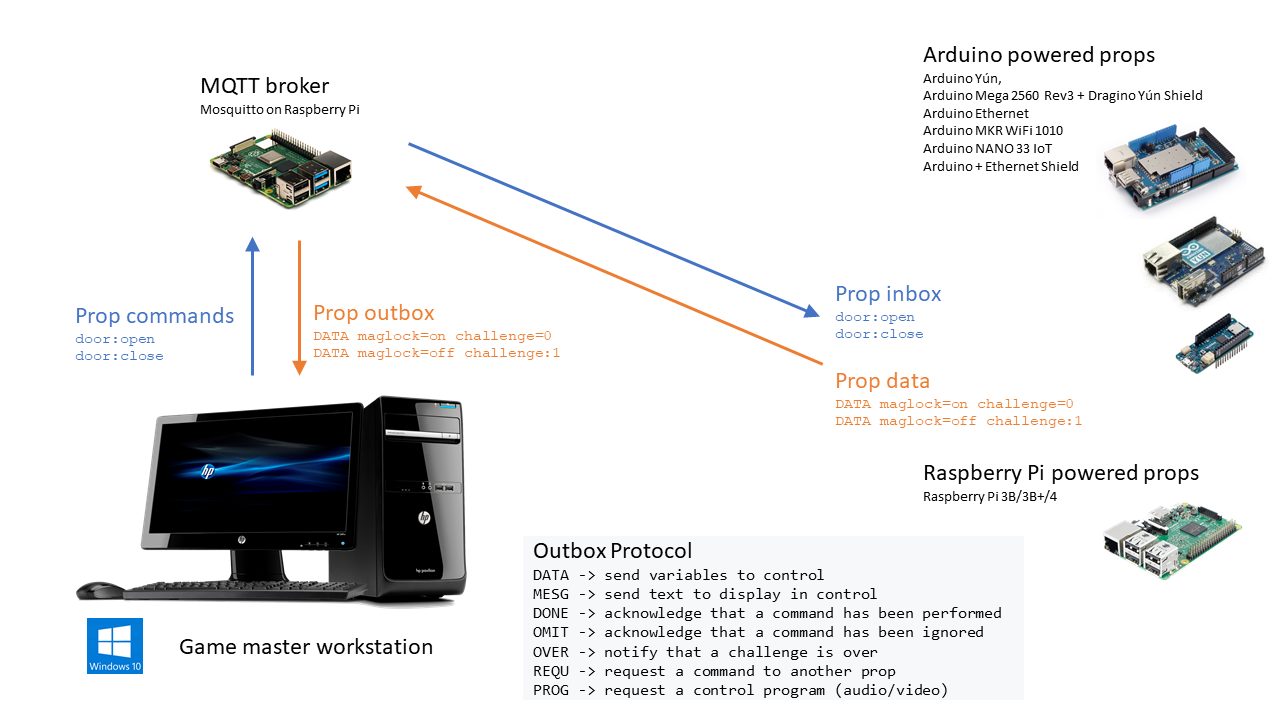
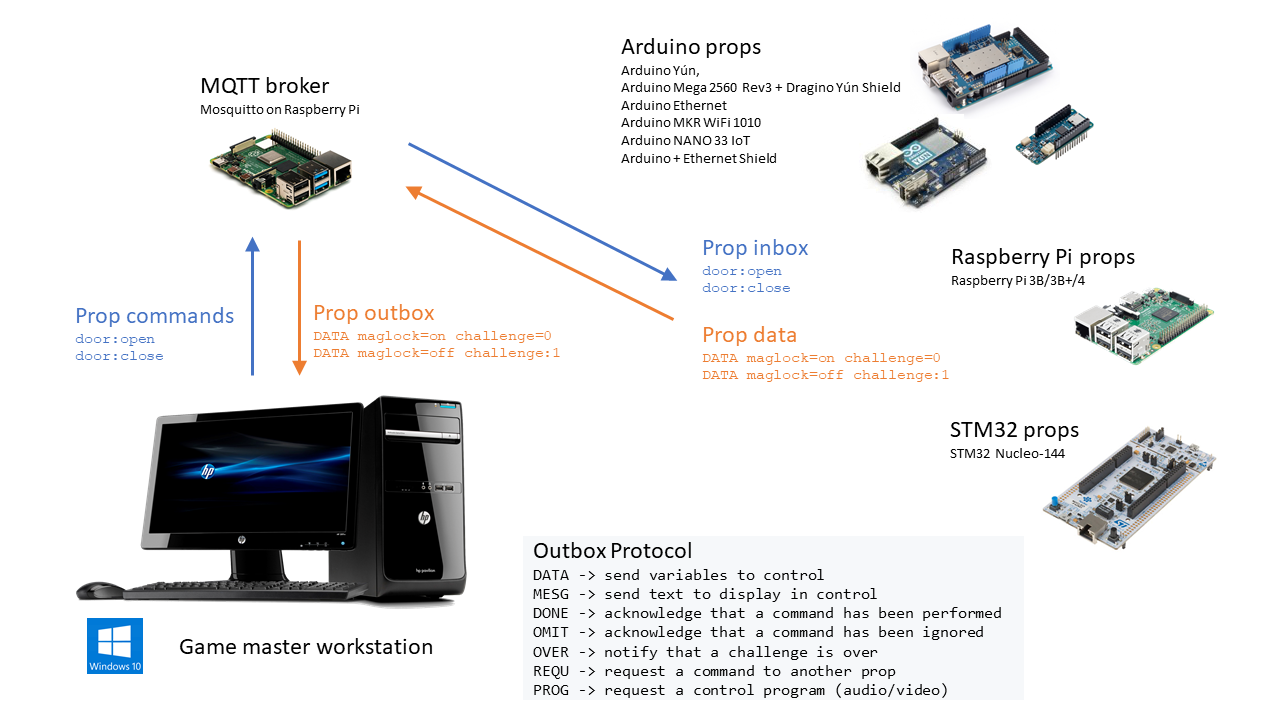
Add STM32 Nucleo-144 support

diff --git a/src/Stm32Millis.h b/src/Stm32Millis.h
@@ -1,0 +1,48 @@
+/*
+  Name:		 Stm32Millis.h
+  Author:  Faure Systems <dev at faure dot systems>
+  Editor:  https://github.com/fauresystems
+  License: MIT License (c) Faure Systems <dev at faure dot systems>
+
+  Implement millis() missing in STM32duino.
+  https://github.com/stm32duino/wiki/wiki/HardwareTimer-library
+*/
+
+#ifndef STM32MILLIS_H
+#define STM32MILLIS_H
+
+#if defined(STM32F4xx) || defined(STM32F7xx)
+
+#include <Arduino.h>
+
+class Stm32MillisClass {
+
+  public:
+    HardwareTimer *_timer;
+    static unsigned long milliseconds;
+
+    static void update(void) {
+      ++Stm32MillisClass::milliseconds;
+    }
+
+    void begin() {
+
+#if defined(TIM1)
+      TIM_TypeDef *Instance = TIM1;
+#else
+      TIM_TypeDef *Instance = TIM2;
+#endif
+
+      // Instantiate HardwareTimer object. Thanks to 'new' instanciation, HardwareTimer is not destructed when setup() function is finished.
+      _timer = new HardwareTimer(Instance);
+
+      _timer->setOverflow(1000, MICROSEC_FORMAT);
+      _timer->attachInterrupt(update);
+      _timer->resume();
+    }
+};
+
+extern Stm32MillisClass Stm32Millis;
+
+#endif // STM32F4xx|STM32F7xx
+#endif

diff --git a/src/Stm32Nucleo144Prop.cpp b/src/Stm32Nucleo144Prop.cpp
@@ -1,0 +1,21 @@
+/*
+  Name:	   Stm32Nucleo144Prop.cpp
+  Author:  Faure Systems <dev at faure dot systems>
+  Editor:  https://github.com/fauresystems
+  License: MIT License (c) Faure Systems <dev at faure dot systems>
+
+  Prop for Arduino with Ethernet shield.
+*/
+
+#include "Stm32Nucleo144Prop.h"
+
+Stm32Nucleo144Prop::Stm32Nucleo144Prop(const char* client_id, const char* in_box, const char* out_box, const char* broker, const int port)
+    : Prop(client_id, in_box, out_box, broker, port)
+{
+    _client.setClient(_ethernetClient);
+}
+
+void Stm32Nucleo144Prop::begin(void(*on_message)(String))
+{
+    if (on_message) onInboxMessageReceived = on_message;
+}

diff --git a/src/Stm32Nucleo144Prop.h b/src/Stm32Nucleo144Prop.h
@@ -1,0 +1,27 @@
+/*
+  Name:    Stm32Nucleo144Prop.h
+  Author:  Faure Systems <dev at faure dot systems>
+  Editor:  https://github.com/fauresystems
+  License: MIT License (c) Faure Systems <dev at faure dot systems>
+
+  Prop for Arduino with Ethernet shield.
+*/
+#ifndef STM32NUCLEO144PROP_H
+#define STM32NUCLEO144PROP_H
+
+
+#include <LwIP.h>
+#include <STM32Ethernet.h>
+#include "Prop.h"
+
+class Stm32Nucleo144Prop : public Prop
+{
+  public:
+    Stm32Nucleo144Prop(const char*, const char*, const char*, const char*, const int);
+    void begin(void(*)(String) = NULL);
+
+  private:
+      EthernetClient _ethernetClient;
+};
+
+#endif

diff --git a/src/PropData.h b/src/PropData.h
@@ -9,12 +9,6 @@
 #ifndef PROPDATA_H
 #define PROPDATA_H
 
-#if defined(ARDUINO) && ARDUINO >= 100
-#include "arduino.h"
-#else
-#include "WProgram.h"
-#endif
-
 #include <inttypes.h>
 #include <WString.h>
 
@@ -59,7 +53,7 @@ class PropDataInteger : public PropData
 class PropDataLogical : public PropData
 {
   public:
-    PropDataLogical(const char *, const char *trueval = NULL, const char *falseval = NULL, bool initial = false);
+    PropDataLogical(const char *, const char *trueval = 0, const char *falseval = 0, bool initial = false);
     String fetch();
     String fetchChange();
     void setValue(const bool);

diff --git a/src/Stm32Millis.cpp b/src/Stm32Millis.cpp
@@ -1,0 +1,16 @@
+/*
+  Name:    Stm32Millis.cpp
+  Author:  Faure Systems <dev at faure dot systems>
+  Editor:  https://github.com/fauresystems
+  License: MIT License (c) Faure Systems <dev at faure dot systems>
+
+  Implement millis() missing in STM32duino.
+*/
+#if defined(STM32F4xx) || defined(STM32F7xx)
+
+#include "Stm32Millis.h"
+
+unsigned long Stm32MillisClass::milliseconds = 0;
+Stm32MillisClass Stm32Millis;
+
+#endif // STM32F4xx|STM32F7xx

diff --git a/src/ArduinoProps.h b/src/ArduinoProps.h
@@ -10,6 +10,9 @@
 #ifndef _ArduinoProps_h
 #define _ArduinoProps_h
 
+#if !defined(STM32F4xx) && !defined(STM32F7xx) // tested with STM32F767
+
+
 #if defined(ARDUINO) && ARDUINO >= 100
 #include "arduino.h"
 #else
@@ -19,6 +22,11 @@
 #include "BridgeProp.h"
 #include "EthernetProp.h"
 #include "WifiProp.h"
+
+#else // !STM32F4xx && !STM32F7xx
+#include <Arduino.h>
+#endif // STM32F4
+
 #include "PropAction.h"
 #include "PropData.h"
 

diff --git a/src/Prop.cpp b/src/Prop.cpp
@@ -8,7 +8,7 @@
 */
 
 #include "Prop.h"
-#include <Process.h>
+//#include <Process.h>
 #if defined(__AVR__)
 #include <avr/wdt.h>
 #endif
@@ -99,7 +99,7 @@ void Prop::checkDataChanges()
 
 void Prop::resetMcu()
 {
-#if defined(ARDUINO_ARCH_SAMD)
+#if defined(ARDUINO_ARCH_SAMD) || defined(STM32F4xx) || defined(STM32F7xx)
     NVIC_SystemReset();
 #elif defined(ARDUINO_ARCH_AVR) || defined(__AVR__)
     wdt_enable(WDTO_15MS);

diff --git a/src/PropAction.cpp b/src/PropAction.cpp
@@ -1,5 +1,5 @@
 /*
-  Name:    PropAction.h
+  Name:    PropAction.cpp
   Author:  Faure Systems <dev at faure dot systems>
   Editor:  https://github.com/fauresystems
   License: MIT License (c) Faure Systems <dev at faure dot systems>
@@ -8,6 +8,10 @@
 */
 
 #include "PropAction.h"
+
+#if defined(STM32F4xx) || defined(STM32F7xx)
+#include "Stm32Millis.h"
+#endif
 
 PropAction::PropAction() 
 {

diff --git a/src/Prop.h b/src/Prop.h
@@ -9,6 +9,8 @@
 #ifndef PROP_H
 #define PROP_H
 
+#if !defined(STM32F4xx) && !defined(STM32F7xx) // tested with STM32F767
+
 #if defined(ARDUINO) && ARDUINO >= 100
 #include "arduino.h"
 #else
@@ -16,6 +18,9 @@
 #endif
 
 #include <BridgeClient.h>
+
+#endif // !STM32F4xx && !STM32F7xx
+
 #include <PubSubClient.h>
 #include <ListLib.h>
 #include "PropAction.h"

diff --git a/src/PropAction.h b/src/PropAction.h
@@ -10,12 +10,6 @@
 #ifndef PROPACTION_H
 #define PROPACTION_H
 
-#if defined(ARDUINO) && ARDUINO >= 100
-#include "arduino.h"
-#else
-#include "WProgram.h"
-#endif
-
 class PropAction {
 
   public:

diff --git a/EXAMPLES.md b/EXAMPLES.md
@@ -5,6 +5,7 @@ An adaptation of the internal led Blink example (https://www.arduino.cc/en/tutor
 2. [**BlinkOnEthernetProp**](#2-blinkonethernetprop-the-blink-example-on-an-ethernet-prop-with-arduinoprops-library): the Blink example on an Ethernet prop with *ArduinoProps library*
 3. [**BlinkOnWifiProp**](#3-blinkonwifiprop-the-blink-example-on-a-wifi-prop-with-arduinoprops-library): the Blink example on a Wifi prop with *ArduinoProps library*
 4. [**BlinkOnBridgePubSub**](#4-blinkonbridgepubsub-the-blink-example-on-prop-using-pubsubclient-directly): the Blink example on prop using *PubSubClient* directly
+5. [**BlinkOnStm32Nucleo144Prop**](#5-blinkonstm32nucelo144prop-the-blink-example-on-an-stm32-nucelo-144-prop-with-arduinoprops-library): the Blink example on an STM32 Nucleo-144 prop with *ArduinoProps library*
 
 MQTT messages are received asynchronously therefore to keep the sketch responsive to MQTT commands, calls to delay() should be avoided (except short ones, say < 100 milliseconds).
 
@@ -456,9 +457,55 @@ Global variables use 1013 bytes (39%) of dynamic memory, which leaves 1547 bytes
 ```
 
 
+## 5. *BlinkOnStm32Nucleo144Prop*: the Blink example on an STM32 Nucleo-144 prop with *ArduinoProps library*
+
+Sketch with *BlinkOnStm32Nucleo144Prop* has been derived *EthernetProp*.
+
+Includes for STM32 are different:
+```c
+#include <LwIP.h>
+#include <STM32Ethernet.h>
+#include "Stm32Nucleo144Prop.h"
+#include "ArduinoProps.h"
+#include "Stm32Millis.h"
+extern Stm32MillisClass Stm32Millis;
+```
+
+Ethernet connection start is slightly different:
+```c
+  if (ip == IPAddress(0,0,0,0)) {
+    if (!Ethernet.begin(mac)) {
+      // if DHCP fails, start with a hard-coded address:
+      Ethernet.begin(mac, IPAddress(10, 90, 90, 239));
+    }
+  }
+  else {
+    Ethernet.begin(mac, ip);
+  }
+```
+
+`millis()` is missing in STM323duino library, you must start **Stm32Millis** in `setup()`:
+```c
+  // millis() missing in STM32duino
+  Stm32Millis.begin();
+```
+
+#### Pay atention to the board MAC address:
+MAC adresses are hardware identifiers on the network so they must be unique.
+
+A good practice is to increment only the byte at the very right (`0x03`) when adding a new Arduino Ethernet on your network.
+
+```csharp
+byte mac[] = { 0x46, 0x4F, 0xEA, 0x10, 0x20, 0x03 }; //<<< MAKE SURE IT'S UNIQUE IN YOUR NETWORK!!! and not a reserved MAC
+
+```
+
+
+
+
 ## Author
 
-**Faure Systems** (Nov 15th, 2019)
+**Faure Systems** (Jun 25th, 2019)
 * company: FAURE SYSTEMS SAS
 * mail: *dev at faure dot systems*
 * github: <a href="https://github.com/fauresystems?tab=repositories" target="_blank">fauresystems</a>

diff --git a/README.md b/README.md
@@ -1,4 +1,4 @@
-# ArduinoProps library
+# ArduinoProps library
 1. [Installation and usage](#1-installation-and-usage)
 2. [Escape room 2.0 prop with Arduino](#2-escape-room-20-prop-with-arduino)
 3. [*ArduinoProps library* value for escape room 2.0](#3-arduinoprops-library-value-for-escape-room-20)
@@ -48,6 +48,28 @@ Then install *Dragino Yún* in **Boards Manager**:
 Learn more at <a href="https://wiki.dragino.com/index.php?title=Getting_Start_with_Arduino_Yun#Automatically_Add_Board_Profile_in_Arduino_IDE" target="_blank">Automatically Add Board Profile in Arduino IDE</a> in <a href="https://wiki.dragino.com/index.php?title=Yun_Shield" target="_blank">Dragino Wiki</a>.
 
 ![](help/dragino.png)
+
+### Add the STM32 boards to the *Boards Manager*:
+Open **Preferences**, in **Settings** tab, complete the *Additionnal Boards Manager URLs* with:
+```bash
+https://github.com/stm32duino/BoardManagerFiles/raw/master/STM32/package_stm_index.json
+```
+
+![](help/preferences-board-manager.png)
+
+Then open the **Boards Manager** in **Tools**:
+
+![](help/open-board-manager.png)
+
+Find **STM32 Cores** by **STMicroelectronics**, **Select versio**n (latest) and **Install**:
+
+![](help/board-manager-1.png)
+
+In **Library Manager**, find STM32 libraries and install what you need:
+* **STM32duino Examples**
+* **STM32duino LwIP**
+* **STM32duino STM32Ethernet**
+
 
 ### Start coding your own prop
 Add `#include "ArduinoProps.h"` on top of your sketch and start coding.
@@ -207,6 +229,9 @@ More MQTT topics can be use for anything (room scenario, etc.).
  - Arduino MKR WiFi 1010
  - Arduino MKR VIDOR 4000
  - Any Arduino  + Ethernet Shield
+ - Any STM32 Nucleo-144 (tested with STM32-F767ZI)
+    * Nucleo-144 boards have on-board Ethernet RJ45
+    * STM32-H7xx not supported (STM32duino/STM32Ethernet limitation)
  
 For WiFi prop, please update the WiFiNINA firmware: [WiFiNINA firmware update](help/WifiNinaFirmware.md).
 
@@ -268,7 +293,7 @@ See [EXAMPLES.md](EXAMPLES.md) for an adaptation of the Blink example (https://w
 
 ## Author
 
-**Faure Systems** (Apr 18th, 2020)
+**Faure Systems** (Jun 26th, 2020)
 * company: FAURE SYSTEMS SAS
 * mail: *dev at faure dot systems*
 * github: <a href="https://github.com/fauresystems?tab=repositories" target="_blank">fauresystems</a>
